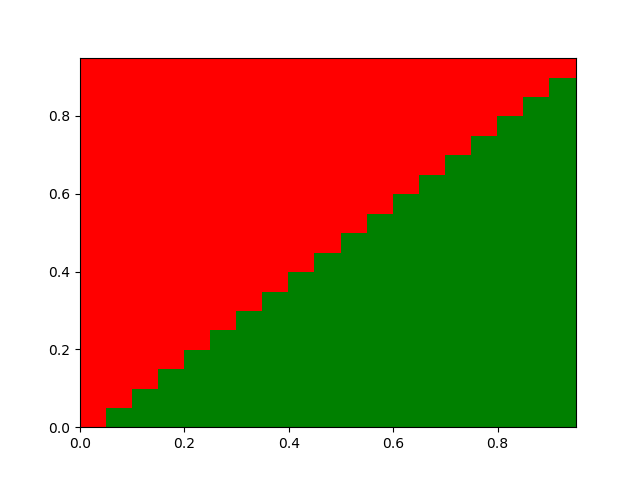
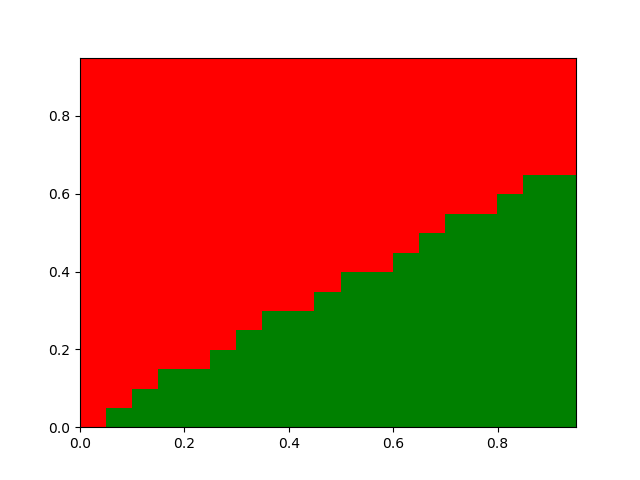
submission

Changed region(s): [[0.2812, 0.1562, 0.9062, 0.7812]]

diff --git a/T3/code/problem2.py b/T3/code/problem2.py
@@ -5,6 +5,7 @@ import matplotlib.pyplot as plt
 import matplotlib.colors as c
 import random
 from Perceptron import Perceptron
+from sklearn.svm import SVC
 
 # Implement this class
 class KernelPerceptron(Perceptron):
@@ -155,20 +156,34 @@ val = np.loadtxt("val.csv", delimiter=',')
 X_val = data[:, :2]
 Y_val = data[:, 2]
 
+"""
+clf = SVC()
+clf.fit(X,Y)
+correct = 0
+wrong = 0
+for i in range(len(X_val)):
+	y_pred = clf.predict(Y_val[i])
+	if y_pred == Y[i]:
+		correct += 1
+	else:
+		wrong += 1
+print "Svc", (float(correct)/float(correct+wrong))
+"""
+
 # These are the parameters for the models. Please play with these and note your observations about speed and successful hyperplane formation.
-beta = 0.5
-N = 500
+beta = 0.05
+N = 100
 numsamples = 20000 # 20000
 
 kernel_file_name = 'k.png'
 budget_kernel_file_name = 'bk.png'
 
 # Don't change things below this in your final version. Note that you can use the parameters above to generate multiple graphs if you want to include them in your writeup.
-# k = KernelPerceptron(numsamples)
-# k.sanity_check(X,Y)
-# k.fit(X,Y)
-# k.visualize(kernel_file_name, width=0, show_charts=True, save_fig=True, include_points=False)
-# print "validation", k.validate(X_val, Y_val)
+k = KernelPerceptron(numsamples)
+k.sanity_check(X,Y)
+k.fit(X,Y)
+k.visualize(kernel_file_name, width=0, show_charts=True, save_fig=True, include_points=False)
+print "validation", k.validate(X_val, Y_val)
 
 bk = BudgetKernelPerceptron(beta, N, numsamples)
 bk.fit(X, Y)
